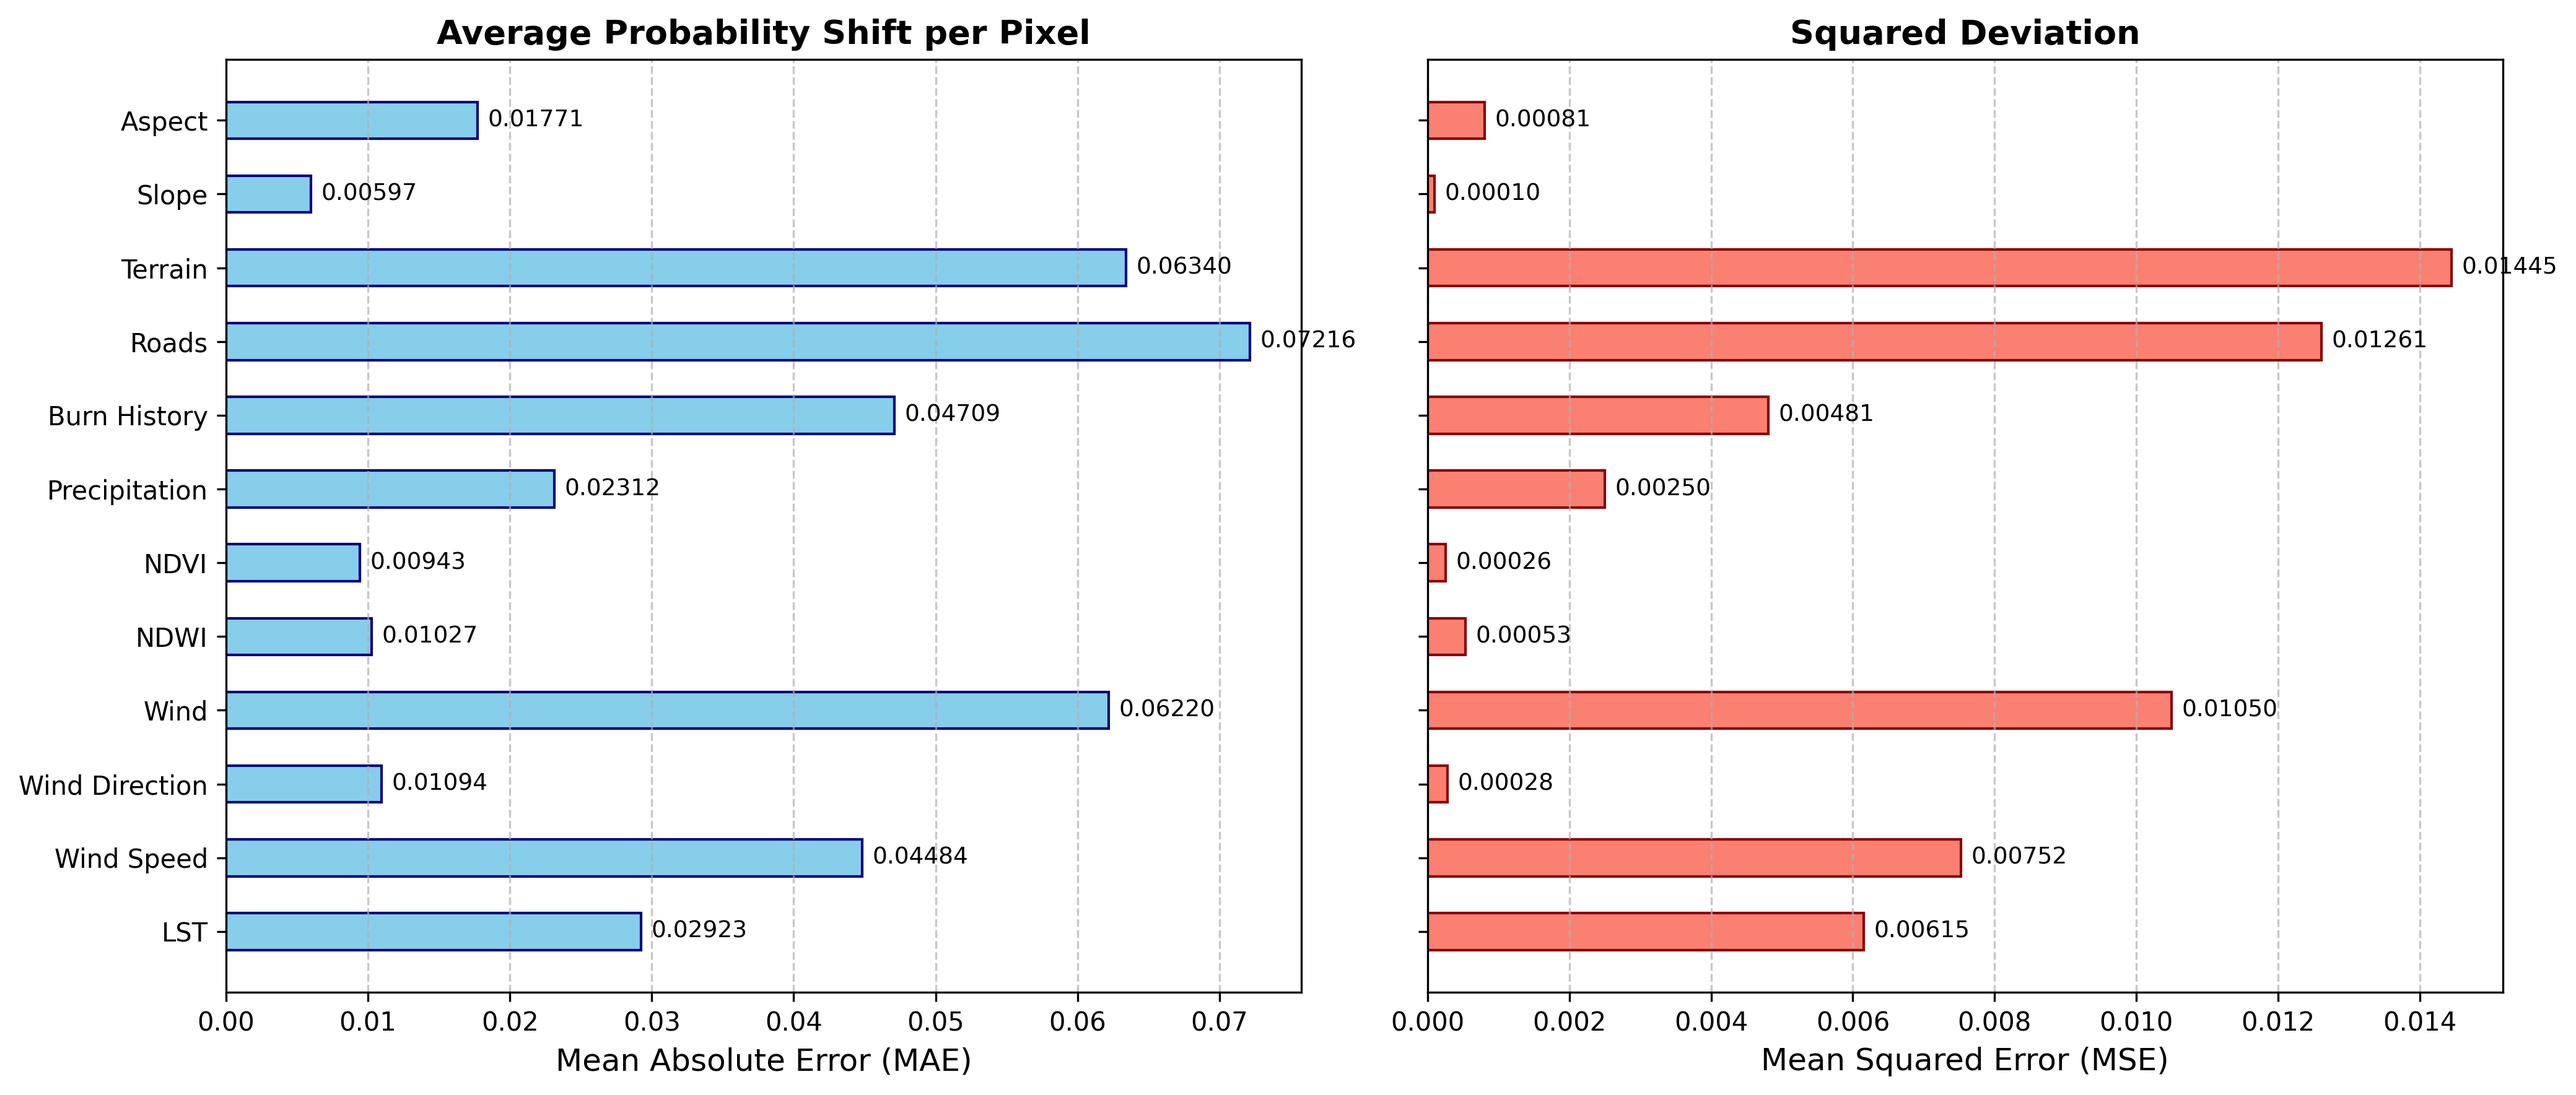
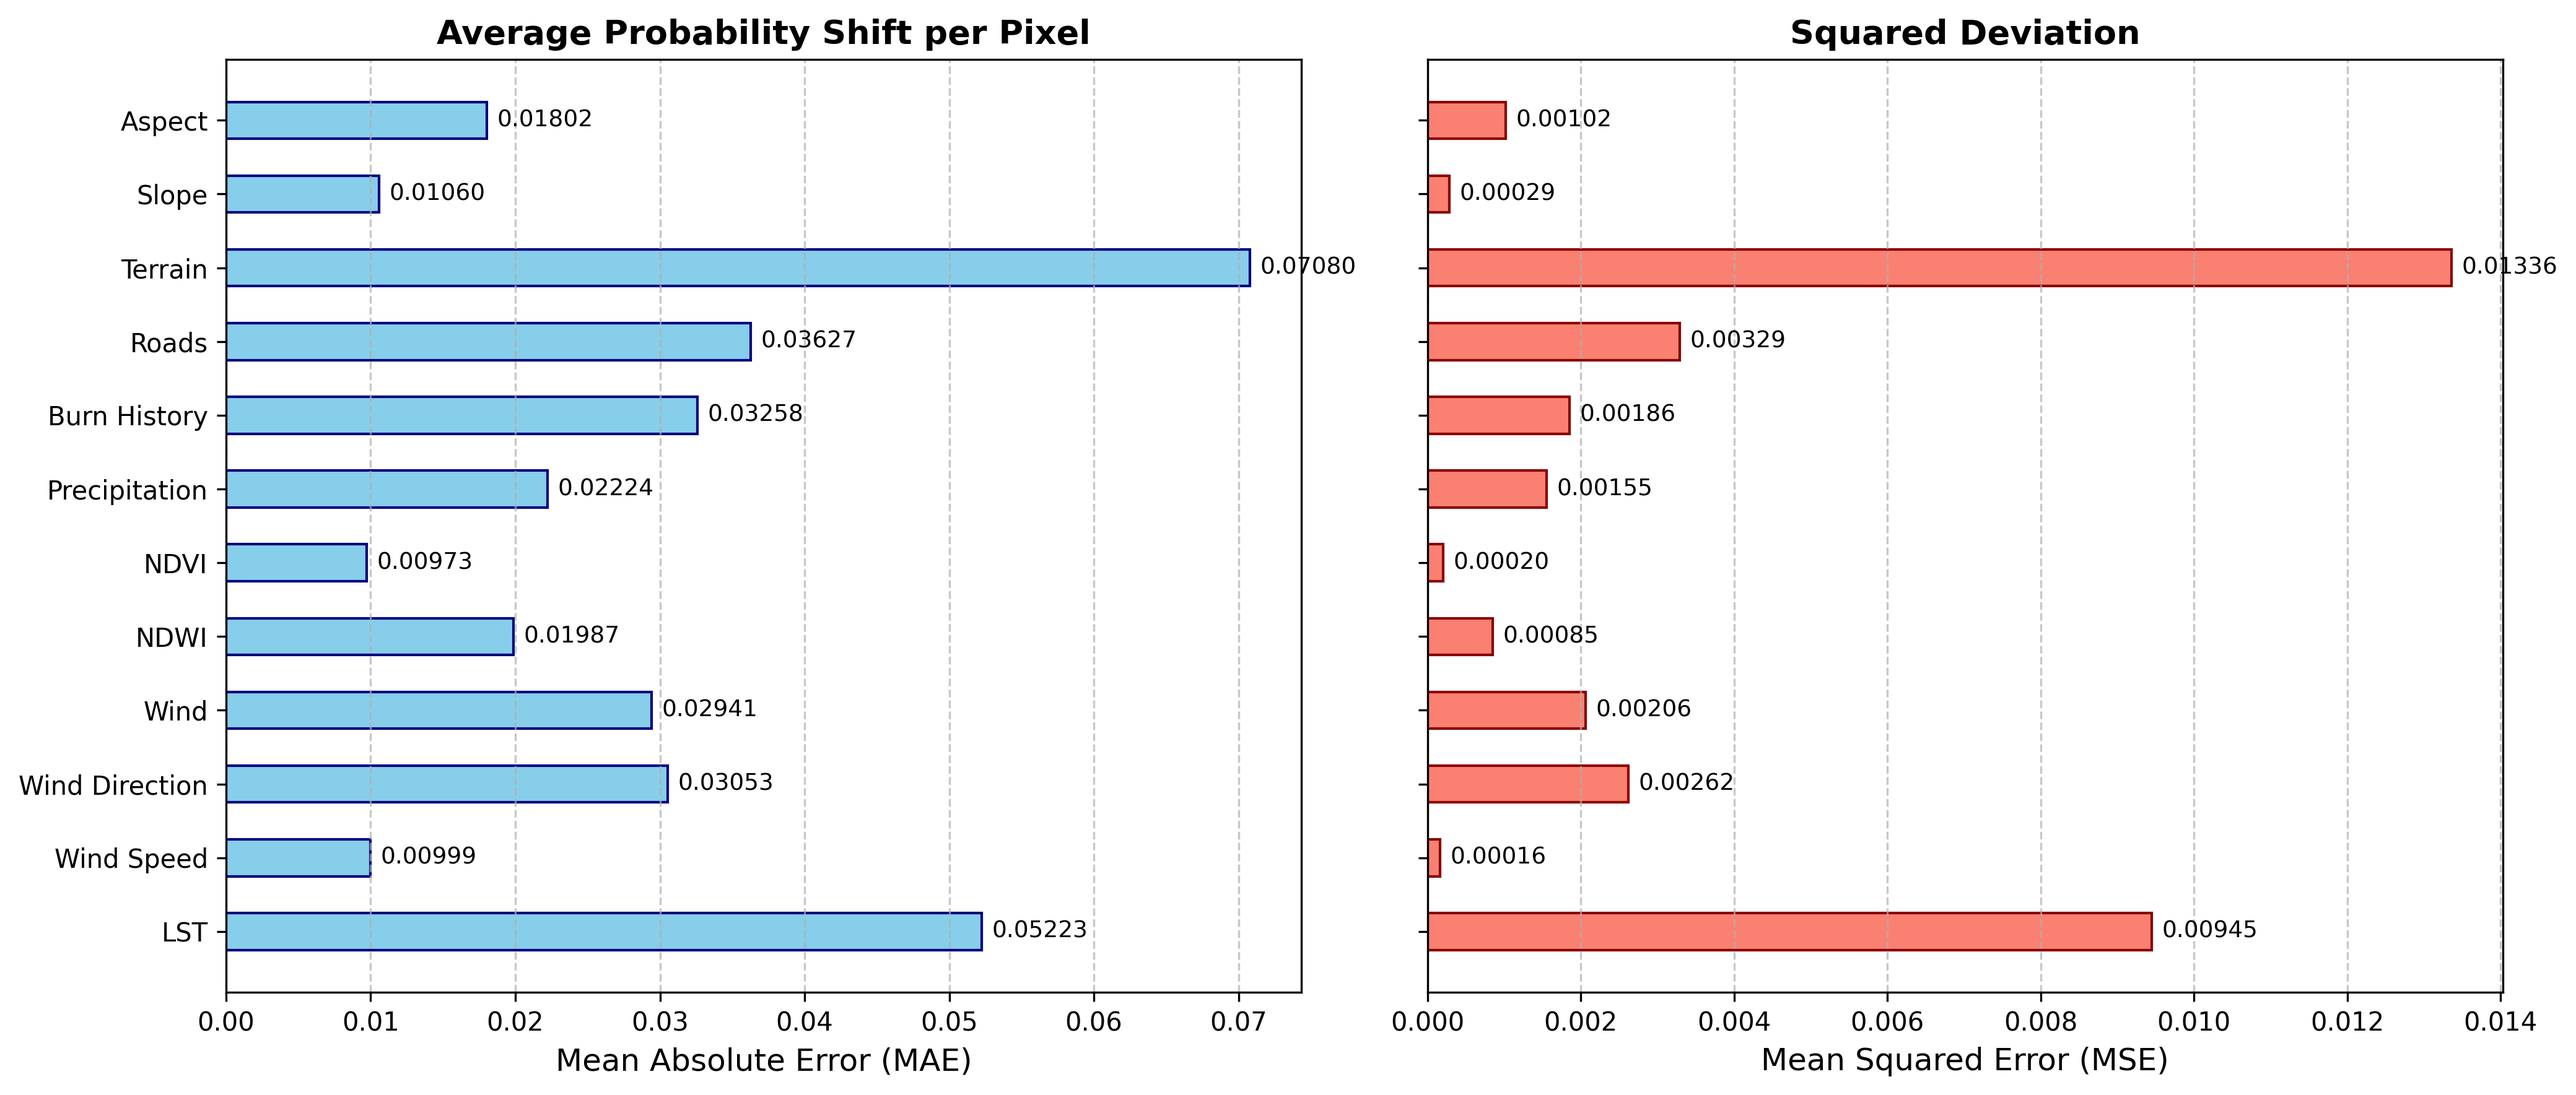
seasonal fig

diff --git a/exports/seasonal_prediction/main.py b/exports/seasonal_prediction/main.py
@@ -1,0 +1,170 @@
+# Internal
+from src.core.utils import load_config
+from src.models.vit.vit import STViT
+from scripts.dataset import SpatialTemporalDataset, skip_missing_collate_fn
+
+# External
+import torch
+import torch.nn as nn
+from torch.utils.data import DataLoader
+import math
+from pathlib import Path
+from datetime import datetime
+import numpy as np
+import seaborn as sns
+import matplotlib.pyplot as plt
+from matplotlib.colorbar import ColorbarBase
+from matplotlib.colors import Normalize
+
+# ----- CONFIG ----- #
+correction_logit = math.log(600)
+out_path = Path('exports', 'seasonal_prediction', 'season_pred.png')
+# ------------------ #
+
+
+def load_trained_model(cfg_model : nn.Module, cfg_data, model_path, device):
+    model = STViT(
+        num_dynamic_channels=cfg_model['num_dynamic_channels'],
+        num_static_channels=cfg_model['num_static_channels'] + cfg_model['num_single_dynamic_channels'],
+        num_timestamps_per_sample=cfg_data['temporal_extent']['sample_extent'],
+        patch_size=cfg_model['patch_size'],
+        embedding_dim=cfg_model['embedding_dim']
+    )
+    model.load_state_dict(torch.load(model_path, map_location=device))
+    return model.to(device)
+
+def predict_ds_from_model(model, dataloader : DataLoader, device):
+    model.eval()
+
+    all_probs = []
+    all_dates = []
+
+    # Primary sweep with full model
+    with torch.no_grad():
+        for batch_idx, batch in enumerate(dataloader):
+            print(f'Processing test batch_idx {batch_idx + 1} / {len(dataloader)}')
+            if batch is None:
+                continue
+
+            static_x = batch['static'].to(device)
+            single_dynamic_x = batch['single_dynamic'].to(device)
+            dynamic_x = batch['dynamic'].to(device)
+
+            first_date = datetime.strptime(batch['meta_first_date'][0], '%Y-%m-%d')
+
+            ## Predict
+            logits = model(x_static=static_x,
+                           x_dynamic=dynamic_x,
+                           x_single_dynamic=single_dynamic_x)
+
+            probs = torch.sigmoid(logits).squeeze() / 50
+
+            all_probs.append(probs)
+            all_dates.append(first_date)
+            
+
+    # Stack all results together
+    all_preds_tensor = torch.stack(all_probs, dim = 0)
+    
+    return all_preds_tensor.detach().cpu().numpy(), all_dates
+
+def plot_seasonal_preds(preds: np.ndarray, dates: list):
+    """
+    Plots the first prediction of each season (quarter) side-by-side in a 1x4 grid
+    using a unified Turbo colormap and a shared horizontal colorbar at the bottom.
+    """
+    num_samples = len(preds)
+    if num_samples < 4:
+        raise ValueError(f"Not enough data points ({num_samples}) to split into 4 seasons.")
+
+    # 1. Calculate indices for the start of each quarter
+    quarter_size = num_samples // 4
+    seasonal_indices = [0, quarter_size, quarter_size * 2, quarter_size * 3]
+    seasons = ['Winter', 'Spring', 'Summer', 'Autumn']
+
+    # Extract the specific 4 frames and their corresponding dates
+    selected_preds = [preds[i] for i in seasonal_indices]
+    selected_dates = [dates[i].strftime('%Y-%m-%d') for i in seasonal_indices]
+
+    # 2. Determine global min/max for the unified colorbar
+    vmin = min(p.min() for p in selected_preds)
+    vmax = max(p.max() for p in selected_preds)
+
+    # 3. Initialize the Seaborn/Matplotlib figure layout (1 row, 4 columns)
+    # We allocate extra height at the bottom for the horizontal colorbar
+    sns.set_theme(style="white")
+    fig, axes = plt.subplots(1, 4, figsize=(20, 8), gridspec_kw={'bottom': 0.25})
+
+    # 4. Plot each season side-by-side
+    for i, ax in enumerate(axes):
+        sns.heatmap(
+            selected_preds[i],
+            ax=ax,
+            cmap='gnuplot2',
+            vmin=vmin,
+            vmax=vmax,
+            cbar=False,       # Turn off individual colorbars
+            xticklabels=False, # Hide ticks for a cleaner map look
+            yticklabels=False
+        )
+        ax.set_title(f"{seasons[i]}\n({selected_dates[i]})", fontsize=12, fontweight='bold')
+
+    # Adjust layout so subplots don't overlap
+    plt.tight_layout()
+
+    # 5. Add the single, unified colorbar at the bottom
+    # [left, bottom, width, height] relative to the whole figure
+    cbar_ax = fig.add_axes([0.25, 0.12, 0.5, 0.04]) 
+    norm = Normalize(vmin=vmin, vmax=vmax)
+    
+    hcbar = ColorbarBase(
+        cbar_ax, 
+        cmap=plt.get_cmap('gnuplot2'), 
+        norm=norm,
+        orientation='horizontal' # Flipped to horizontal
+    )
+    hcbar.set_label('Prediction Probability / Intensity', fontsize=12, labelpad=8)
+
+    # Save and show
+    out_path.parent.mkdir(parents=True, exist_ok=True)
+    plt.savefig(out_path, dpi=300, bbox_inches='tight')
+    print(f"Seasonal prediction plot saved to {out_path}")
+
+    return None
+
+if __name__ == '__main__':
+    
+    # Load cfg
+    exp_name = 't010_1' # 't009_1'
+
+    cfg_file = 'config_' + exp_name + '.yaml'
+    cfg_path = Path('files', 'configs', cfg_file)
+    cfg = load_config(cfg_path)
+    cfg_model = cfg['model']
+    cfg_data = cfg['data']
+
+    # Load model path
+    model_path = Path('files', 'experiments', exp_name, f'{exp_name}_model_best.pt')
+
+    # Device
+    device = 'mps'
+
+    # Select baseline model
+    model = load_trained_model(
+        cfg_model=cfg_model,
+        cfg_data=cfg_data,
+        model_path=model_path,
+        device = device
+    )
+
+    # Data
+    dataset = SpatialTemporalDataset(cfg_path, split_type="test", benchmark_mode=True)
+    dataloader = DataLoader(
+        dataset, batch_size=1, shuffle=False, num_workers=1,
+        pin_memory=False, collate_fn=skip_missing_collate_fn
+    )
+
+
+    preds, dates = predict_ds_from_model(model = model, dataloader = dataloader, device=device)
+
+    plot_seasonal_preds(preds, dates)

diff --git a/exports/tsne/main.py b/exports/tsne/main.py
@@ -71,7 +71,7 @@ def evaluate_model_tsne(model, dataloader: DataLoader):
 
             # Adaptive pooling to match patch resolution
             patch_preds = F.adaptive_avg_pool2d(pred_map, (grid_h, grid_w))
-            patch_probabilities = torch.sigmoid(patch_preds - correction_logit)
+            patch_probabilities = torch.sigmoid(patch_preds)
 
             # --- PRESERVE STRUCTURES ---
             # Keep both flattened (for t-SNE) and 2D spatial layouts (for geographic plotting)
@@ -267,6 +267,9 @@ def plot_global_vector_space(time_frames, perplexity=30, max_display_points=3000
 
     plt.grid(True, linestyle=':', alpha=0.5, color='gray')
     plt.tight_layout()
+    fig_name = 'tsne_glob.png'
+    file_path = out_path / fig_name
+    plt.savefig(file_path, dpi = 300)
     plt.show()
 
     return global_2d, all_predictions
@@ -307,4 +310,4 @@ if __name__ == '__main__':
     time_frames = evaluate_model_tsne(model = model, dataloader=dataloader)
 
     track_single_patch(time_frames, patch_idx= 330)
-    #plot_global_vector_space(time_frames=time_frames)
+    plot_global_vector_space(time_frames=time_frames)
